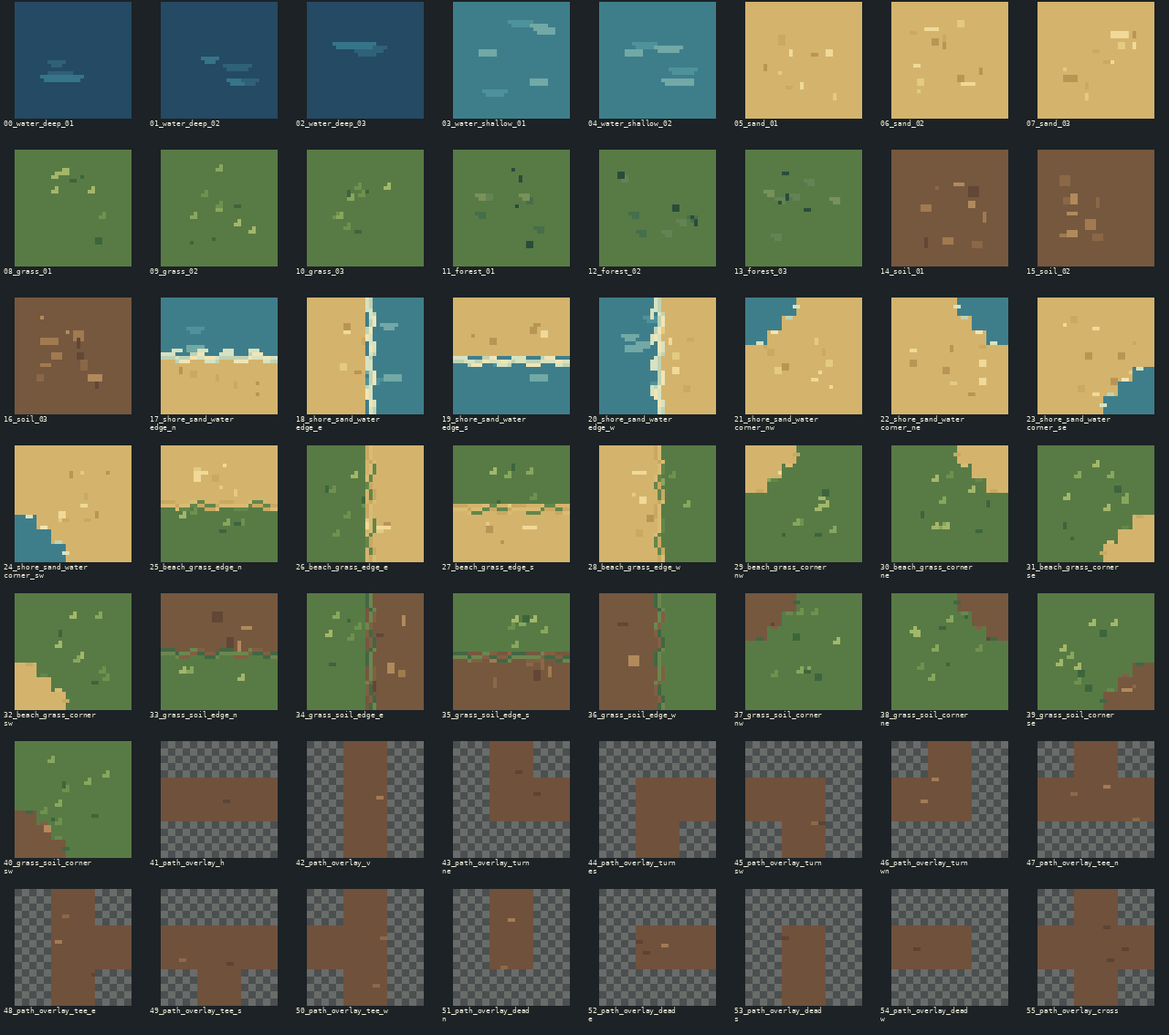
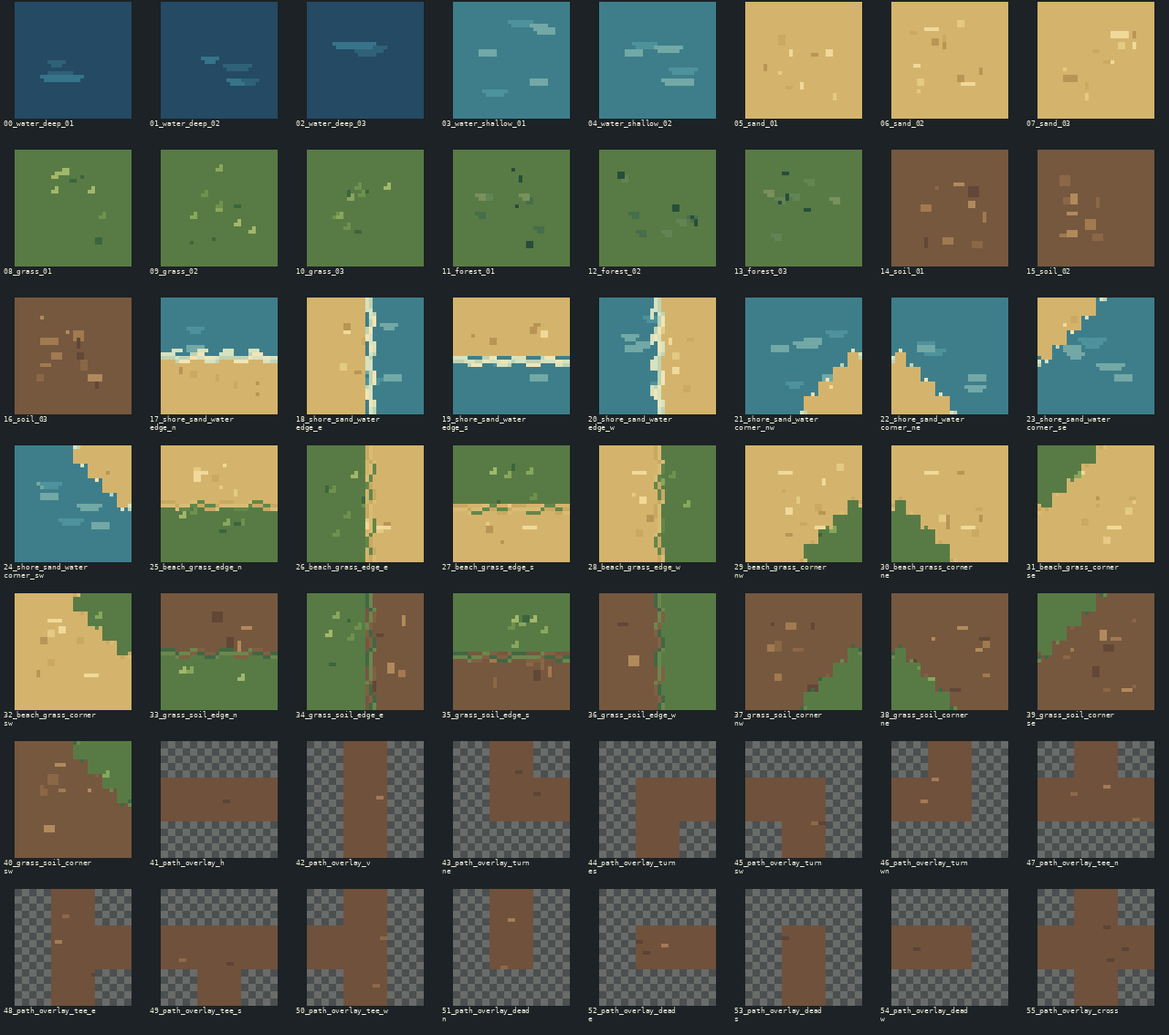
fix: align terrain transition corners

diff --git a/tools/art/generate_mvp_terrain_tileset.py b/tools/art/generate_mvp_terrain_tileset.py
@@ -20,6 +20,7 @@ OUT_ATLAS = "assets/environments/terrain_mvp_candidate_v1/terrain_mvp_candidate_
 OUT_MANIFEST = "assets/environments/terrain_mvp_candidate_v1/terrain_mvp_candidate_v1.json"
 OUT_CONTACT = "docs/art/evidence/terrain/terrain_mvp_candidate_v1_contact.png"
 OUT_SAMPLE = "docs/art/evidence/terrain/terrain_mvp_candidate_v1_sample.png"
+OUT_CONTEXT = "docs/art/evidence/terrain/terrain_mvp_candidate_v1_context.png"
 
 PALETTES = {
     "water_deep": ["#244a64", "#2f6178", "#367489", "#18394f"],
@@ -164,9 +165,12 @@ def orient_edge(material_a, material_b, direction, edge_palette, foam=False, til
 def corner_transition(material_base, material_corner, corner, edge_palette, foam=False, tile_id=""):
     img = base_tile(material_base, 0, tile_id + "_base")
     patch = base_tile(material_corner, 1, tile_id + "_corner")
-    # L-shaped, stair-stepped coastline/biome boundary from the corner inward.
-    # Define the corner mask at top-left, mirror for other corners.
-    points = [(0,0),(13,0),(13,4),(9,4),(9,8),(5,8),(5,12),(0,12)]
+    # Fill the two outside edges with material_corner, then step the diagonal
+    # boundary to the half-cell joins used by the adjacent cardinal connectors.
+    # This makes each corner's inner sides line up pixel-for-pixel with its two
+    # neighboring edge tiles in a 3x3 boundary composition.
+    points = [(0,0),(31,0),(31,14),(27,14),(27,18),(23,18),(23,22),
+              (19,22),(19,26),(15,26),(15,31),(0,31)]
     corner_masks = {
         "NW": (False, False), "NE": (True, False),
         "SW": (False, True), "SE": (True, True),
@@ -175,11 +179,41 @@ def corner_transition(material_base, material_corner, corner, edge_palette, foam
     pts = [mirror_xy(p, mx, my) for p in points]
     mask = Image.new("1", (CELL,CELL), 0); ImageDraw.Draw(mask).polygon(pts, fill=1)
     img.paste(patch, (0,0), mask)
-    # Crisp dashes along the stepped edge, transformed with the corner orientation.
+    # A few crisp material-edge accents follow the diagonal; no resampling.
     d = ImageDraw.Draw(img)
-    for i,(x,y) in enumerate([(13,2),(11,5),(7,9),(3,12)]):
-        q1=mirror_xy((x,y),mx,my); q2=mirror_xy((x+1,y),mx,my)
-        d.line((q1,q2),fill=rgba(edge_palette[i % len(edge_palette)]),width=1)
+    for i, point in enumerate([(29,14),(26,18),(22,22),(18,26)]):
+        x,y=mirror_xy(point,mx,my)
+        d.point((x,y),fill=rgba(edge_palette[i % len(edge_palette)]))
+
+    # Copy only the shared inner borders from the matching cardinal connectors.
+    # Their outer borders remain the corner material, so they meet solid regions.
+    adjacent = {
+        "NW": (("right", "N", "left"), ("bottom", "W", "top")),
+        "NE": (("left", "N", "right"), ("bottom", "E", "top")),
+        "SE": (("left", "S", "right"), ("top", "E", "bottom")),
+        "SW": (("right", "S", "left"), ("top", "W", "bottom")),
+    }
+    edge_tiles = {
+        direction: orient_edge(material_base, material_corner, direction,
+                               edge_palette, foam, tile_id + "_join_" + direction)
+        for direction in "NESW"
+    }
+
+    def copy_side(target_side, edge_direction, source_side):
+        source = edge_tiles[edge_direction]
+        for offset in range(CELL):
+            target_xy = {
+                "left": (0, offset), "right": (CELL - 1, offset),
+                "top": (offset, 0), "bottom": (offset, CELL - 1),
+            }[target_side]
+            source_xy = {
+                "left": (0, offset), "right": (CELL - 1, offset),
+                "top": (offset, 0), "bottom": (offset, CELL - 1),
+            }[source_side]
+            img.putpixel(target_xy, source.getpixel(source_xy))
+
+    for target_side, edge_direction, source_side in adjacent[corner]:
+        copy_side(target_side, edge_direction, source_side)
     return img
 
 PATH_ARMS = {
@@ -265,10 +299,137 @@ def checker(size):
             if (x//8+y//8)%2: d.rectangle((x,y,x+7,y+7),fill=(105,108,105,255))
     return im
 
+def border_pixels(img, side):
+    if side == "left": return [img.getpixel((0,y)) for y in range(CELL)]
+    if side == "right": return [img.getpixel((CELL-1,y)) for y in range(CELL)]
+    if side == "top": return [img.getpixel((x,0)) for x in range(CELL)]
+    return [img.getpixel((x,CELL-1)) for x in range(CELL)]
+
+CORNER_EDGE_PAIRS = {
+    "nw": (("right", "n", "left"), ("bottom", "w", "top")),
+    "ne": (("left", "n", "right"), ("bottom", "e", "top")),
+    "se": (("left", "s", "right"), ("top", "e", "bottom")),
+    "sw": (("right", "s", "left"), ("top", "w", "bottom")),
+}
+TRANSITION_FAMILIES = (
+    ("shore_sand_water", "sand_01", "water_shallow_01"),
+    ("beach_grass", "grass_01", "sand_01"),
+    ("grass_soil", "grass_01", "soil_01"),
+)
+EDGE_MATERIAL_SIDES = {
+    "n": (("top", "b"), ("bottom", "a")),
+    "e": (("right", "b"), ("left", "a")),
+    "s": (("bottom", "b"), ("top", "a")),
+    "w": (("left", "b"), ("right", "a")),
+}
+CORNER_OUTER_SIDES = {
+    "nw": ("top", "left"), "ne": ("top", "right"),
+    "se": ("bottom", "right"), "sw": ("bottom", "left"),
+}
+
+def audit_corner_edge_joins(tiles):
+    lookup={tid:img for tid,kind,group,img,note in tiles}
+    prefixes=("shore_sand_water", "beach_grass", "grass_soil")
+    failures=[]
+    checked=0
+    for prefix in prefixes:
+        for corner,joins in CORNER_EDGE_PAIRS.items():
+            for corner_side,edge_direction,edge_side in joins:
+                checked+=1
+                corner_img=lookup[f"{prefix}_corner_{corner}"]
+                edge_img=lookup[f"{prefix}_edge_{edge_direction}"]
+                if border_pixels(corner_img,corner_side)!=border_pixels(edge_img,edge_side):
+                    failures.append({"corner":f"{prefix}_corner_{corner}",
+                                     "side":corner_side,
+                                     "edge":f"{prefix}_edge_{edge_direction}",
+                                     "edge_side":edge_side})
+    return checked,failures
+
+def audit_transition_material_joins(tiles):
+    lookup={tid:img for tid,kind,group,img,note in tiles}
+    failures=[]
+    checked=0
+    for prefix,material_a,material_b in TRANSITION_FAMILIES:
+        for direction,sides in EDGE_MATERIAL_SIDES.items():
+            edge_img=lookup[f"{prefix}_edge_{direction}"]
+            for side,material in sides:
+                checked+=1
+                base_id=material_b if material=="b" else material_a
+                if border_pixels(edge_img,side)!=border_pixels(lookup[base_id],side):
+                    failures.append({"edge":f"{prefix}_edge_{direction}",
+                                     "side":side,"base":base_id})
+    return checked,failures
+
+def audit_corner_outer_material_joins(tiles):
+    lookup={tid:img for tid,kind,group,img,note in tiles}
+    failures=[]
+    checked=0
+    for prefix,material_a,material_b in TRANSITION_FAMILIES:
+        for corner,sides in CORNER_OUTER_SIDES.items():
+            corner_img=lookup[f"{prefix}_corner_{corner}"]
+            for side in sides:
+                checked+=1
+                if border_pixels(corner_img,side)!=border_pixels(lookup[material_b],side):
+                    failures.append({"corner":f"{prefix}_corner_{corner}",
+                                     "side":side,"base":material_b})
+    return checked,failures
+
+def make_context_review(lookup):
+    """Build nearest-neighbor context evidence for every transition family and path."""
+    scale=4; margin=16; title_h=22
+    families=(
+        ("ÁGUA / AREIA", "shore_sand_water", "sand_02"),
+        ("AREIA / GRAMA", "beach_grass", "grass_02"),
+        ("GRAMA / SOLO", "grass_soil", "grass_02"),
+    )
+    panel=3*CELL*scale
+    family_w=panel+24
+    path_w=2*CELL*scale
+    path_h=CELL*scale
+    path_label_h=20
+    path_cols=5; path_rows=3
+    width=max(3*family_w+2*margin, path_cols*(path_w+10)+2*margin)
+    top_h=title_h+panel
+    bottom_h=title_h+path_rows*(path_h+path_label_h+8)
+    height=2*margin+top_h+22+bottom_h
+    out=Image.new("RGB",(width,height),(28,34,37)); d=ImageDraw.Draw(out)
+    font=ImageFont.truetype("/usr/share/fonts/truetype/dejavu/DejaVuSansMono.ttf",12)
+    label_font=ImageFont.truetype("/usr/share/fonts/truetype/dejavu/DejaVuSansMono.ttf",10)
+    d.text((margin,margin),"TRANSIÇÕES EM CONTEXTO — composição 3×3, nearest 4×",font=font,fill=(238,235,215))
+    start_y=margin+title_h
+    for idx,(title,prefix,base_id) in enumerate(families):
+        x=margin+idx*family_w
+        d.text((x,start_y),title,font=label_font,fill=(238,235,215))
+        y=start_y+14
+        names=((f"{prefix}_corner_nw",f"{prefix}_edge_n",f"{prefix}_corner_ne"),
+               (f"{prefix}_edge_w",base_id,f"{prefix}_edge_e"),
+               (f"{prefix}_corner_sw",f"{prefix}_edge_s",f"{prefix}_corner_se"))
+        for row_idx,row in enumerate(names):
+            for col_idx,name in enumerate(row):
+                tile=lookup[name].resize((CELL*scale,CELL*scale),Image.Resampling.NEAREST)
+                out.paste(tile,(x+col_idx*CELL*scale,y+row_idx*CELL*scale))
+    path_y=start_y+panel+18
+    d.text((margin,path_y),"CAMINHOS SOBRE GRAMA (ESQUERDA) E SOLO (DIREITA), nearest 4×",font=font,fill=(238,235,215))
+    path_y+=title_h
+    names=[tid for tid in lookup if tid.startswith("path_overlay_")]
+    for i,name in enumerate(names):
+        col,row=i%path_cols,i//path_cols
+        x=margin+col*(path_w+10); y=path_y+row*(path_h+path_label_h+8)
+        left=lookup["grass_02"].copy(); left.alpha_composite(lookup[name])
+        right=lookup["soil_02"].copy(); right.alpha_composite(lookup[name])
+        pair=Image.new("RGBA",(2*CELL,CELL),(0,0,0,255))
+        pair.alpha_composite(left,(0,0)); pair.alpha_composite(right,(CELL,0))
+        out.paste(pair.resize((path_w,path_h),Image.Resampling.NEAREST).convert("RGB"),(x,y))
+        d.text((x,y+path_h+3),name.removeprefix("path_overlay_"),font=label_font,fill=(238,235,215))
+    return out
+
 def main():
     ap=argparse.ArgumentParser(); ap.add_argument("--output-dir",default=".")
     args=ap.parse_args(); root=Path(args.output_dir); tiles=build_tiles()
     if len(tiles)!=56: raise SystemExit(f"expected 56 tiles, got {len(tiles)}")
+    corner_edge_joins_checked,corner_edge_join_failures=audit_corner_edge_joins(tiles)
+    transition_base_joins_checked,transition_base_join_failures=audit_transition_material_joins(tiles)
+    corner_outer_base_joins_checked,corner_outer_base_join_failures=audit_corner_outer_material_joins(tiles)
     atlas=Image.new("RGBA",(COLS*CELL,((len(tiles)+COLS-1)//COLS)*CELL),(0,0,0,0))
     for i,(tid,kind,group,img,note) in enumerate(tiles):
         atlas.paste(img,((i%COLS)*CELL,(i//COLS)*CELL))
@@ -311,6 +472,8 @@ def main():
         sample.alpha_composite(overlay,(x*CELL,y*CELL))
     sample_path=root/OUT_SAMPLE; sample_path.parent.mkdir(parents=True,exist_ok=True)
     sample.convert("RGB").resize((cols*CELL*2,rows*CELL*2),Image.Resampling.NEAREST).save(sample_path,optimize=True)
+    context_path=root/OUT_CONTEXT; context_path.parent.mkdir(parents=True,exist_ok=True)
+    make_context_review(lookup).save(context_path,optimize=True)
     # Metadata and repeatability diagnostics.
     entries=[]
     for i,(tid,kind,group,img,note) in enumerate(tiles):
@@ -334,10 +497,10 @@ def main():
             for x in range(CELL):
                 if tile.getpixel((x,y))[3] and not mask.getpixel((x,y)):
                     overlay_footprint_failures.append({"id":tid,"pixel":[x,y]})
-    manifest={"id":"terrain_mvp_candidate_v1","status":"candidate_pending_visual_and_engine_review","created":"2026-10-15","cell_px_candidate":[CELL,CELL],"fixed_scale":False,"project":"A Ilha do Cristal","art_direction":"RPG Classico 2D pixel art; orthogonal grid; top-down slightly oblique; hard pixel clusters; no antialiasing","scope":["beach/spawn","forest","inland/interior ground"],"atlas":{"file":"terrain_mvp_candidate_v1.png","size_px":list(atlas.size),"columns":COLS,"rows":7,"tile_count":len(tiles),"tile_order":"row-major; see tiles[].atlas_xy_tiles"},"rendering":{"filter":"nearest","mipmaps":"disabled for candidate test","tile_layers":"surface base + optional path overlay; collision/navigation not encoded","alpha_values":alpha_values},"generation":{"script":"tools/art/generate_mvp_terrain_tileset.py","seed":SEED,"method":"Pillow integer-coordinate raster drawing at native cell resolution; no resampling of source artwork; source does not overwrite concepts or character sprites","prompt":"RPG Classico 2D top-down slightly oblique orthogonal terrain for a family-friendly island survival RPG; readable warm beach/spawn, forest and inland surfaces; compact repeat-safe pixel clusters; crisp pixel edges, no anti-aliasing, no characters, no props, no labels in atlas; 32x32 px candidate cell only."},"validation":{"png_rgba":atlas.mode=="RGBA","dimensions_multiple_of_cell":atlas.width%CELL==0 and atlas.height%CELL==0,"alpha_values":alpha_values,"alpha_binary":set(alpha_values).issubset({0,255}),"base_tiles_seam_edge_check":"all base-cell edge pixels equal that tile's corner/base color; repeats without boundary discontinuity","base_tiles_checked":len(base_tiles),"base_repeat_failures":repeat_fail,"transitions_checked":"N/E/S/W connectors plus four corners per boundary family; composition only, not auto-tile engine tested","engine_validation":"pending; no Godot render or device test","sample_render":"scripted tile composition, not a Godot screenshot"},"tiles":entries,"visual_evidence":{"contact_sheet":"docs/art/evidence/terrain/terrain_mvp_candidate_v1_contact.png","composed_sample":"docs/art/evidence/terrain/terrain_mvp_candidate_v1_sample.png"},"limitations":["32x32 px per SQM is a candidate; test at 50–125% zoom and Android sizes before fixing scale.","Top-down slightly oblique visual is a flat ground tile contract; the current sample is not gameplay or engine evidence.","Transition cells occupy a tile on the boundary; no Godot terrain-set/autotile resource or collision/navigation data is included.","No trees, rocks as props, resource nodes, buildings, characters or hazards are included; add only after separate GDD scope/review.","Review palette coherence, shore continuity, repeat seams and readability in Godot before production approval."]}
+    manifest={"id":"terrain_mvp_candidate_v1","status":"candidate_pending_visual_and_engine_review","created":"2026-10-15","cell_px_candidate":[CELL,CELL],"fixed_scale":False,"project":"A Ilha do Cristal","art_direction":"RPG Classico 2D pixel art; orthogonal grid; top-down slightly oblique; hard pixel clusters; no antialiasing","scope":["beach/spawn","forest","inland/interior ground"],"atlas":{"file":"terrain_mvp_candidate_v1.png","size_px":list(atlas.size),"columns":COLS,"rows":7,"tile_count":len(tiles),"tile_order":"row-major; see tiles[].atlas_xy_tiles"},"rendering":{"filter":"nearest","mipmaps":"disabled for candidate test","tile_layers":"surface base + optional path overlay; collision/navigation not encoded","alpha_values":alpha_values},"generation":{"script":"tools/art/generate_mvp_terrain_tileset.py","seed":SEED,"method":"Pillow integer-coordinate raster drawing at native cell resolution; no resampling of source artwork; source does not overwrite concepts or character sprites","prompt":"RPG Classico 2D top-down slightly oblique orthogonal terrain for a family-friendly island survival RPG; readable warm beach/spawn, forest and inland surfaces; compact repeat-safe pixel clusters; crisp pixel edges, no anti-aliasing, no characters, no props, no labels in atlas; 32x32 px candidate cell only."},"validation":{"png_rgba":atlas.mode=="RGBA","dimensions_multiple_of_cell":atlas.width%CELL==0 and atlas.height%CELL==0,"alpha_values":alpha_values,"alpha_binary":set(alpha_values).issubset({0,255}),"base_tiles_seam_edge_check":"all base-cell edge pixels equal that tile's corner/base color; repeats without boundary discontinuity","base_tiles_checked":len(base_tiles),"base_repeat_failures":repeat_fail,"transitions_checked":"N/E/S/W connectors plus four corners per boundary family; cardinal-to-base, corner-to-edge, and corner-to-base joins checked in 3x3 composition; no engine test","transition_base_joins_checked":transition_base_joins_checked,"transition_base_join_failures":transition_base_join_failures,"corner_edge_joins_checked":corner_edge_joins_checked,"corner_edge_join_failures":corner_edge_join_failures,"corner_outer_base_joins_checked":corner_outer_base_joins_checked,"corner_outer_base_join_failures":corner_outer_base_join_failures,"engine_validation":"pending; no Godot render or device test","sample_render":"scripted tile composition, not a Godot screenshot"},"tiles":entries,"visual_evidence":{"contact_sheet":"docs/art/evidence/terrain/terrain_mvp_candidate_v1_contact.png","composed_sample":"docs/art/evidence/terrain/terrain_mvp_candidate_v1_sample.png","context_composition_review":"docs/art/evidence/terrain/terrain_mvp_candidate_v1_context.png"},"limitations":["32x32 px per SQM is a candidate; test at 50–125% zoom and Android sizes before fixing scale.","Top-down slightly oblique visual is a flat ground tile contract; the current sample is not gameplay or engine evidence.","Transition cells occupy a tile on the boundary; no Godot terrain-set/autotile resource or collision/navigation data is included.","No trees, rocks as props, resource nodes, buildings, characters or hazards are included; add only after separate GDD scope/review.","Review palette coherence, shore continuity, repeat seams and readability in Godot before production approval."]}
     manifest["validation"]["overlay_tiles_checked"]=sum(1 for tile in tiles if tile[1]=="overlay")
     manifest["validation"]["overlay_footprint_failures"]=overlay_footprint_failures
     manifest_path=root/OUT_MANIFEST; manifest_path.parent.mkdir(parents=True,exist_ok=True); manifest_path.write_text(json.dumps(manifest,indent=2,ensure_ascii=False)+"\n",encoding="utf-8")
-    print(json.dumps({"atlas":str(atlas_path),"manifest":str(manifest_path),"contact":str(contact_path),"sample":str(sample_path),"tile_count":len(tiles),"atlas_size":list(atlas.size),"alpha_values":alpha_values,"base_repeat_failures":repeat_fail,"overlay_footprint_failures":overlay_footprint_failures},indent=2))
+    print(json.dumps({"atlas":str(atlas_path),"manifest":str(manifest_path),"contact":str(contact_path),"sample":str(sample_path),"context":str(context_path),"tile_count":len(tiles),"atlas_size":list(atlas.size),"alpha_values":alpha_values,"base_repeat_failures":repeat_fail,"transition_base_joins_checked":transition_base_joins_checked,"transition_base_join_failures":transition_base_join_failures,"corner_edge_joins_checked":corner_edge_joins_checked,"corner_edge_join_failures":corner_edge_join_failures,"corner_outer_base_joins_checked":corner_outer_base_joins_checked,"corner_outer_base_join_failures":corner_outer_base_join_failures,"overlay_footprint_failures":overlay_footprint_failures},indent=2))
 
 if __name__=="__main__": main()

diff --git a/tools/art/validate_mvp_terrain_tileset.py b/tools/art/validate_mvp_terrain_tileset.py
@@ -36,6 +36,80 @@ assert repeat_fail==manifest['validation']['base_repeat_failures']
 assert len([t for t in manifest['tiles'] if t['role']=='base'])==17
 assert len([t for t in manifest['tiles'] if t['role']=='transition'])==24
 assert len([t for t in manifest['tiles'] if t['role']=='overlay'])==15
+tile_regions={
+    tile['id']:im.crop((tile['rect_px'][0],tile['rect_px'][1],
+                        tile['rect_px'][0]+tile['rect_px'][2],
+                        tile['rect_px'][1]+tile['rect_px'][3]))
+    for tile in manifest['tiles']
+}
+def border_pixels(region,side):
+    if side=='left': return [region.getpixel((0,y)) for y in range(ch)]
+    if side=='right': return [region.getpixel((cw-1,y)) for y in range(ch)]
+    if side=='top': return [region.getpixel((x,0)) for x in range(cw)]
+    return [region.getpixel((x,ch-1)) for x in range(cw)]
+transition_families=(
+    ('shore_sand_water','sand_01','water_shallow_01'),
+    ('beach_grass','grass_01','sand_01'),
+    ('grass_soil','grass_01','soil_01'),
+)
+edge_material_sides={
+    'n':(('top','b'),('bottom','a')),
+    'e':(('right','b'),('left','a')),
+    's':(('bottom','b'),('top','a')),
+    'w':(('left','b'),('right','a')),
+}
+transition_base_join_failures=[]
+transition_base_joins_checked=0
+for prefix,material_a,material_b in transition_families:
+    for direction,sides in edge_material_sides.items():
+        edge_id=f'{prefix}_edge_{direction}'
+        for side,material in sides:
+            transition_base_joins_checked+=1
+            base_id=material_b if material=='b' else material_a
+            if border_pixels(tile_regions[edge_id],side)!=border_pixels(tile_regions[base_id],side):
+                transition_base_join_failures.append({'edge':edge_id,'side':side,'base':base_id})
+assert transition_base_joins_checked==manifest['validation']['transition_base_joins_checked']
+assert not transition_base_join_failures, f'transition/base border mismatch: {transition_base_join_failures}'
+assert transition_base_join_failures==manifest['validation']['transition_base_join_failures']
+corner_edge_pairs={
+    'nw':(('right','n','left'),('bottom','w','top')),
+    'ne':(('left','n','right'),('bottom','e','top')),
+    'se':(('left','s','right'),('top','e','bottom')),
+    'sw':(('right','s','left'),('top','w','bottom')),
+}
+transition_prefixes=('shore_sand_water','beach_grass','grass_soil')
+corner_edge_join_failures=[]
+corner_edge_joins_checked=0
+for prefix in transition_prefixes:
+    for corner,joins in corner_edge_pairs.items():
+        for corner_side,edge_direction,edge_side in joins:
+            corner_edge_joins_checked+=1
+            corner_id=f'{prefix}_corner_{corner}'
+            edge_id=f'{prefix}_edge_{edge_direction}'
+            if border_pixels(tile_regions[corner_id],corner_side)!=border_pixels(tile_regions[edge_id],edge_side):
+                corner_edge_join_failures.append({
+                    'corner':corner_id,'side':corner_side,
+                    'edge':edge_id,'edge_side':edge_side,
+                })
+assert corner_edge_joins_checked==manifest['validation']['corner_edge_joins_checked']
+assert not corner_edge_join_failures, f'corner/edge border mismatch: {corner_edge_join_failures}'
+assert corner_edge_join_failures==manifest['validation']['corner_edge_join_failures']
+corner_outer_sides={
+    'nw':('top','left'),'ne':('top','right'),
+    'se':('bottom','right'),'sw':('bottom','left'),
+}
+corner_outer_base_join_failures=[]
+corner_outer_base_joins_checked=0
+for prefix,material_a,material_b in transition_families:
+    for corner,sides in corner_outer_sides.items():
+        corner_id=f'{prefix}_corner_{corner}'
+        for side in sides:
+            corner_outer_base_joins_checked+=1
+            if border_pixels(tile_regions[corner_id],side)!=border_pixels(tile_regions[material_b],side):
+                corner_outer_base_join_failures.append({'corner':corner_id,'side':side,'base':material_b})
+assert corner_outer_base_joins_checked==manifest['validation']['corner_outer_base_joins_checked']
+assert not corner_outer_base_join_failures, f'corner/base border mismatch: {corner_outer_base_join_failures}'
+assert corner_outer_base_join_failures==manifest['validation']['corner_outer_base_join_failures']
 path_arms={
     'h':['W','E'],'v':['N','S'],
     'turn_ne':['N','E'],'turn_es':['E','S'],'turn_sw':['S','W'],'turn_wn':['W','N'],
@@ -64,6 +138,6 @@ for tile in manifest['tiles']:
 assert not overlay_footprint_failures, f'path overlay pixels outside route footprint: {overlay_footprint_failures}'
 assert len([t for t in manifest['tiles'] if t['role']=='overlay'])==manifest['validation']['overlay_tiles_checked']
 assert overlay_footprint_failures==manifest['validation']['overlay_footprint_failures']
-for key in ['contact_sheet','composed_sample']:
+for key in ['contact_sheet','composed_sample','context_composition_review']:
     assert (root/manifest['visual_evidence'][key]).is_file(), f'missing evidence {key}'
-print(json.dumps({'result':'PASS_STRUCTURE_AND_OVERLAY_FOOTPRINT','atlas':str(atlas_path),'dimensions_px':list(im.size),'cell_px_candidate':cell,'tiles':len(ids),'roles':{'base':17,'transition':24,'overlay':15},'alpha_values':alpha_values,'base_tile_repeat_edge_failures':repeat_fail,'overlay_footprint_failures':overlay_footprint_failures,'godot_android_visual_review':'PENDING'},ensure_ascii=False,indent=2))
+print(json.dumps({'result':'PASS_STRUCTURE_AND_COMPOSITION_JOINS','atlas':str(atlas_path),'dimensions_px':list(im.size),'cell_px_candidate':cell,'tiles':len(ids),'roles':{'base':17,'transition':24,'overlay':15},'alpha_values':alpha_values,'base_tile_repeat_edge_failures':repeat_fail,'transition_base_joins_checked':transition_base_joins_checked,'transition_base_join_failures':transition_base_join_failures,'corner_edge_joins_checked':corner_edge_joins_checked,'corner_edge_join_failures':corner_edge_join_failures,'corner_outer_base_joins_checked':corner_outer_base_joins_checked,'corner_outer_base_join_failures':corner_outer_base_join_failures,'overlay_footprint_failures':overlay_footprint_failures,'godot_android_visual_review':'PENDING'},ensure_ascii=False,indent=2))

diff --git a/docs/art/evidence/terrain/terrain_mvp_candidate_v1_review.md b/docs/art/evidence/terrain/terrain_mvp_candidate_v1_review.md
@@ -20,6 +20,7 @@ Prancha modular para a praia/spawn, faixa de grama da praia/floresta e solo do i
 - Validador: `tools/art/validate_mvp_terrain_tileset.py`
 - Prancha: `docs/art/evidence/terrain/terrain_mvp_candidate_v1_contact.png`
 - Amostra montada pelo script: `docs/art/evidence/terrain/terrain_mvp_candidate_v1_sample.png` (**não** é captura do Godot)
+- Composição 3×3 dos três grupos de transição e dos 15 caminhos sobre grama/solo: `docs/art/evidence/terrain/terrain_mvp_candidate_v1_context.png` (nearest 4×; não é captura do Godot)
 
 Geração reproduzível a partir da raiz do repositório:
 
@@ -30,13 +31,13 @@ python tools/art/validate_mvp_terrain_tileset.py .
 
 O script usa Pillow, seed `20261015` e desenho com coordenadas inteiras em 32 px; não redimensiona imagens nem altera a prancha conceitual ou sprites de personagens. O prompt/resumo visual e paletas estão no próprio script e manifesto.
 
-## Verificações feitas
+## Verificações da primeira rodada, antes das correções
 
 - `validate_mvp_terrain_tileset.py`: **PASS_STRUCTURE_ONLY** — 56 IDs únicos e regiões válidas; papéis 17/24/15; PNG RGBA 256×224; alpha apenas 0/255; nenhuma falha de borda nas 17 superfícies base repetíveis.
 - `py_compile` nos dois scripts: passou.
 - Parse JSON do manifesto: passou.
 - Revisão visual local da prancha de contato e da amostra: sem antialias produzido pelo script; as transições e o caminho estão visíveis em grade.
-- O teste de repetição verifica bordas de superfícies base. Conectores são peças de interface de uma célula, não estão sujeitos a repetição individual; sua continuidade precisa ser testada na montagem.
+- Na primeira rodada, a continuidade dos conectores ainda não era verificada; a auditoria atual abaixo compõe e valida os encontros em 3×3.
 
 SHA-256 dos artefatos originais, antes da correção do overlay:
 
@@ -51,37 +52,40 @@ SHA-256 dos artefatos originais, antes da correção do overlay:
 
 ## Auditoria de correção — 2026-10-15
 
-**Resultado: candidato / CORRIGIR, com validação no motor e no Android pendente.** Encontrei um pixel opaco fora da máscara do `path_overlay_tee_e`, na coordenada local `(22,23)`. O gerador testava se o primeiro pixel do detalhe estava na trilha, mas podia desenhar o segundo fora dela. Corrigi a geração para clipar cada pixel à máscara e acrescentei ao validador a checagem espacial das 15 overlays. A contagem e o layout permanecem em 56 tiles; a correção removeu um único pixel do atlas.
+**Resultado: candidato / CORRIGIR, com validação Godot e Android pendente.** Na revisão do atlas nativo 256×224 e da prancha nearest 4×, confirmei o reparo anterior de um pixel opaco fora de `path_overlay_tee_e` em `(22,23)`. A correção clipa cada detalhe à máscara e valida a pegada das 15 overlays.
 
-A comparação antes/depois está em `terrain_mvp_candidate_v1_path_overlay_tee_e_before_after.png`, com ampliação nearest de 8× sobre quadriculado. Usei ImageMagick 6.9.12, disponível no ambiente, para recortar e montar a evidência; o atlas continua sendo gerado pelo script Pillow versionado. Pixelorama, LibreSprite, Piskel e Godot CLI não estavam instalados/disponíveis neste ambiente.
+Ao compor as transições em grades 3×3, encontrei outro defeito reproduzível: as bordas dos 12 cantos não coincidiam com as bordas dos conectores cardinais vizinhos. Por exemplo, `shore_sand_water_corner_nw` terminava em areia na borda direita, enquanto `shore_sand_water_edge_n` começava em água na metade norte da borda esquerda. Corrigi as máscaras dos cantos para alcançar os dois lados externos e seguir uma diagonal escalonada até os pontos médios; copiei as duas bordas compartilhadas dos conectores correspondentes, preservando os 56 tiles. O validador confere as 24 bordas conector/base, 24 canto/conector e 24 canto/base, cobrindo os quatro lados e orientações.
 
-Arquivos de terreno examinados: `terrain_mvp_candidate_v1.png`, `terrain_mvp_candidate_v1.json`, `generate_mvp_terrain_tileset.py`, `validate_mvp_terrain_tileset.py`, `terrain_mvp_candidate_v1_contact.png`, `terrain_mvp_candidate_v1_sample.png` e `terrain_mvp_candidate_v1_path_overlay_tee_e_before_after.png`. Também consultei README, GDD, catálogo, arquitetura, handoff, direção de arte e a skill `produce-pixel-sprites` com suas referências de correção e contrato.
+A composição nearest 4× está em `terrain_mvp_candidate_v1_context.png`: inclui as três famílias em grade 3×3 e todos os 15 caminhos sobre grama e solo. Na inspeção, as junções dos cantos agora ficam contínuas. O caminho aparece sobre grama; sobre solo marrom, o contraste ainda precisa ser julgado na faixa de zoom 50–125% do motor/aparelho.
 
-Verificações após a correção:
+Arquivos de terreno examinados: atlas, manifesto, gerador, validador, prancha de contato, amostra, comparação antes/depois do `path_overlay_tee_e` e nova composição de contexto. Também consultei README, GDD, catálogo, arquitetura, handoff, direção de arte e a skill `produce-pixel-sprites` com suas referências de correção e contrato.
 
-- `python tools/art/validate_mvp_terrain_tileset.py`: **PASS_STRUCTURE_AND_OVERLAY_FOOTPRINT**; 56 tiles, papéis 17/24/15, alpha 0/255, nenhuma falha nas superfícies base e zero pixels fora das máscaras das 15 overlays.
-- Reexecutei o novo validador contra o atlas original: ele reproduziu a falha exata em `path_overlay_tee_e` `(22,23)`; o atlas corrigido passa.
+Verificações desta revisão:
+
+- `python tools/art/validate_mvp_terrain_tileset.py`: **PASS_STRUCTURE_AND_COMPOSITION_JOINS**; 56 tiles, papéis 17/24/15, alpha 0/255, zero falhas de repetição nas bases, zero divergências nos 72 encontros conector/base e canto/conector/base, e zero pixels fora das máscaras das 15 overlays.
+- Teste de regressão contra o atlas antes desta correção de cantos: o validador detecta as bordas incompatíveis; a versão atual passa.
 - `python tools/validate_catalogs.py`: passou, 10 grupos e 54 IDs estáveis.
 - `python -m py_compile tools/art/generate_mvp_terrain_tileset.py tools/art/validate_mvp_terrain_tileset.py`: passou.
-- Regerei o candidato em uma pasta temporária e comparei atlas, manifesto, prancha e amostra com `cmp`: todos reproduziram byte a byte. A diferença do atlas é um pixel; a amostra de composição permanece byte a byte igual.
+- Regerei em diretório temporário e comparei atlas, manifesto, prancha, amostra e composição de contexto: todos reproduziram byte a byte.
 - `git diff --check`: passou.
 
-O manifesto registra `overlay_tiles_checked: 15` e `overlay_footprint_failures: []`. O estado continua candidato porque a correção rasterizada ainda não foi importada/revisada no motor.
+O manifesto registra `overlay_tiles_checked: 15`, `overlay_footprint_failures: []`, `transition_base_joins_checked: 24`, `transition_base_join_failures: []`, `corner_edge_joins_checked: 24`, `corner_edge_join_failures: []`, `corner_outer_base_joins_checked: 24` e `corner_outer_base_join_failures: []`. Esses testes validam estrutura, pegadas e continuidade exata das bordas; não aprovam a qualidade artística nem a aparência em engine.
 
 SHA-256 dos artefatos após a correção:
 
 | Arquivo | SHA-256 |
 |---|---|
[13 lines of base64/hex data omitted]
 
-O `project.godot` presente é o harness técnico de QA de sprites e declara Godot 4.5; o executável Godot não está disponível no ambiente. Portanto, a amostra é somente uma composição do Pillow e não prova importação, filtro, transições, escala/SQM ou renderização em TileMapLayer. O teste Android também não foi executado. A próxima validação continua sendo importar e compor o tileset em uma cena Godot, revisar zoom de 50–125% e conferir em aparelho Android antes de aprovar produção.
+O `project.godot` presente é o harness técnico de QA de sprites e declara Godot 4.5; o executável Godot não está disponível no ambiente. Portanto, as imagens de contexto são composições Pillow e não provam importação, filtro, escala/SQM ou renderização em TileMapLayer. O teste Android também não foi executado. A próxima validação é importar e compor o tileset em uma cena Godot, julgar contraste de caminho sobre solo em zoom 50–125% e conferir em aparelho Android antes de aprovar produção.
 
 ## Limitações e próximo gate
 
-Ainda falta importar/renderizar na versão Godot fixada pelo projeto, testar o tileset em uma cena TileMapLayer com filtro nearest, avaliar zoom 50–125%, compor contornos costeiros e caminhos, e conferir legibilidade em aparelho Android. A amostra apresentada é rasterizada pelo mesmo script e não comprova importação nem composição em jogo. Os tilesets do MVP devem continuar candidatos até a revisão visual solicitada e os testes no motor/aparelho; o protótipo de UI v0.7 validado pelo usuário em 2026-10-15 não aprova estes assets.
+Ainda falta importar/renderizar na versão Godot fixada pelo projeto, testar a composição já revisada em uma cena TileMapLayer com filtro nearest, avaliar zoom 50–125% e conferir legibilidade em aparelho Android. As imagens apresentadas são rasterizadas pelo mesmo script e não comprovam importação nem composição em jogo. Os tilesets do MVP devem continuar candidatos até os testes no motor/aparelho; o protótipo de UI v0.7 validado pelo usuário em 2026-10-15 não aprova estes assets.
